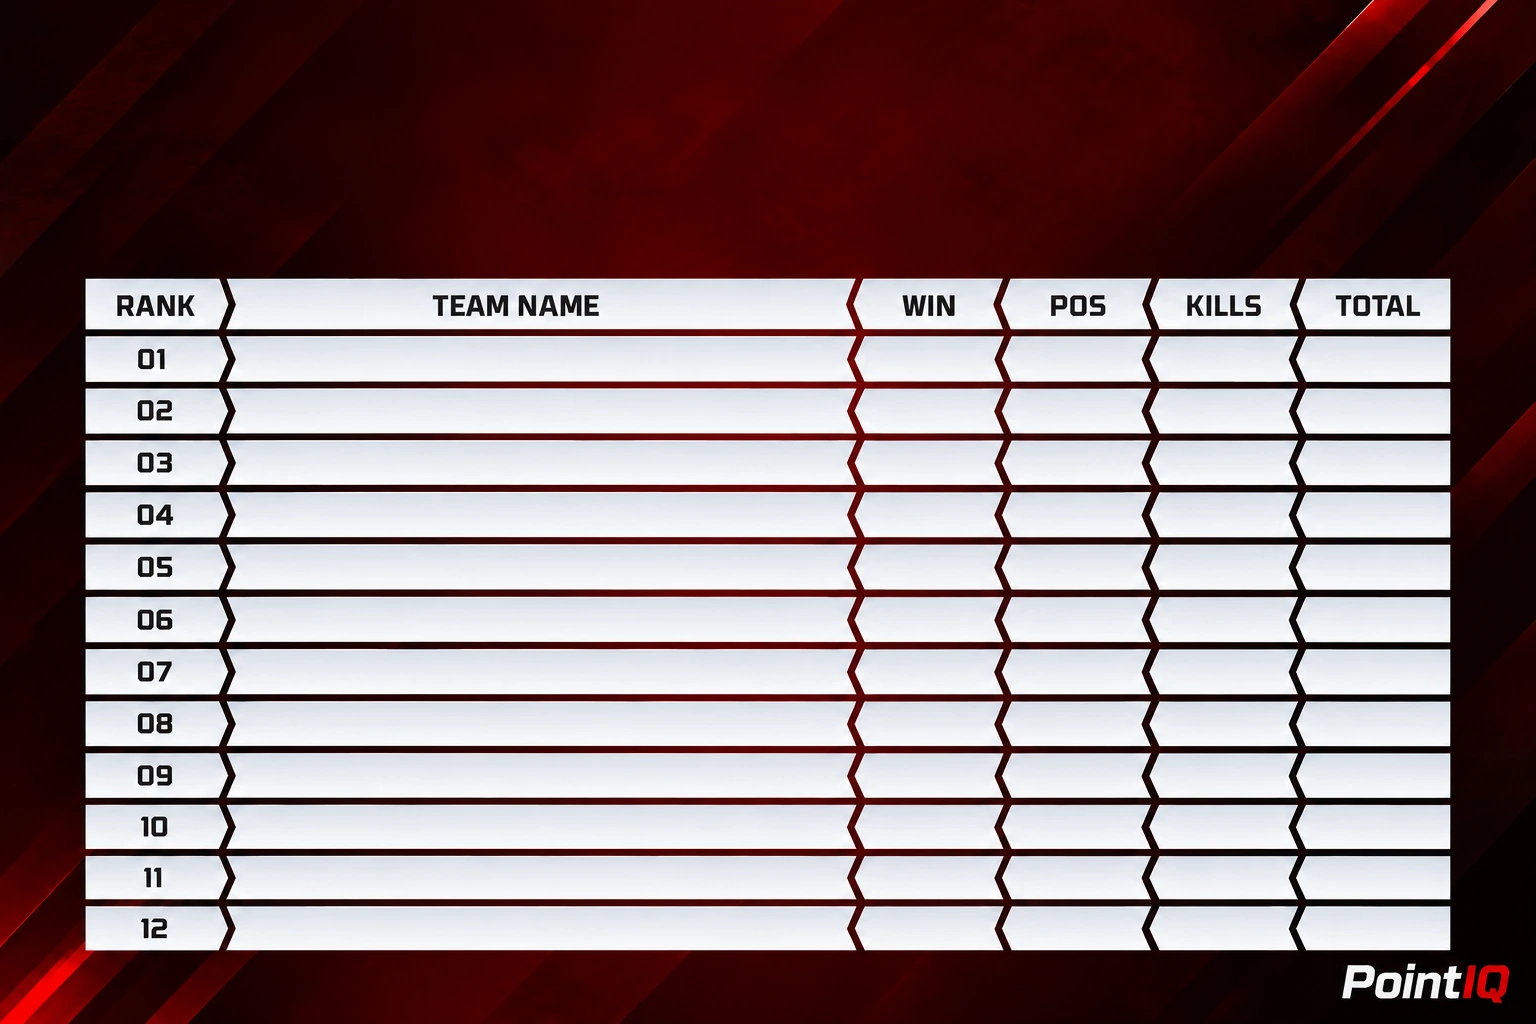
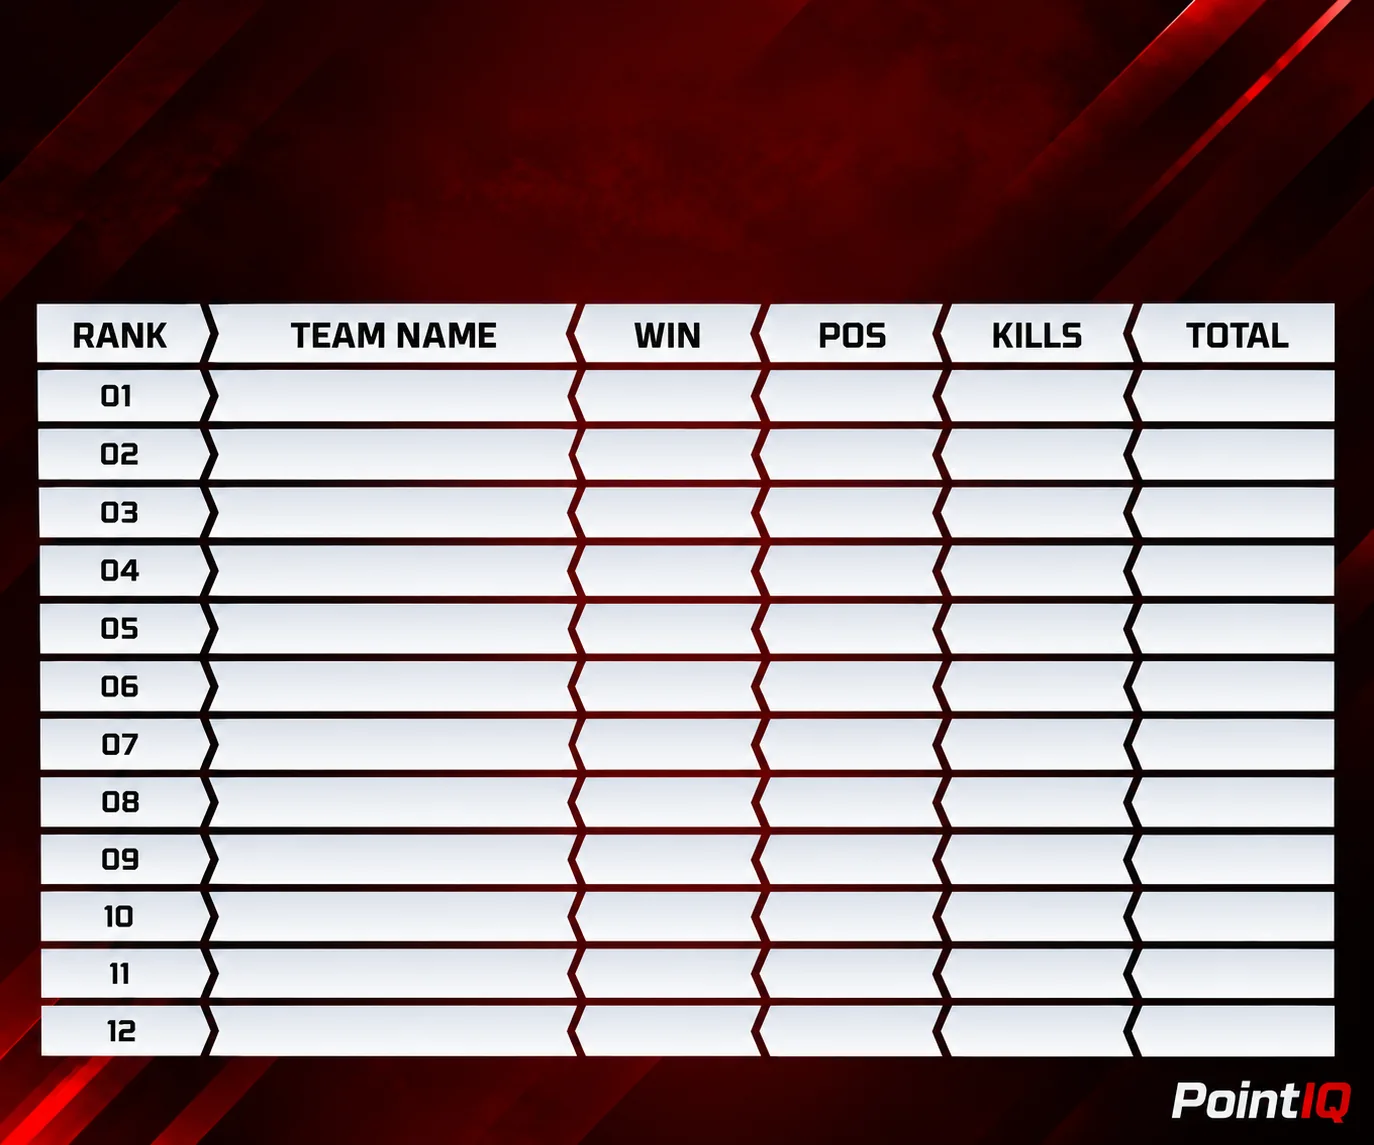
fix(free-design): recalibrate Crimson Edge template

diff --git a/app/src/test/java/com/hoggamers/rankforge/data/export/FreeDesignTemplateRegistryTest.kt b/app/src/test/java/com/hoggamers/rankforge/data/export/FreeDesignTemplateRegistryTest.kt
@@ -294,32 +294,32 @@ class FreeDesignTemplateRegistryTest {
         assertEquals("Crimson Edge", template6.displayName)
         assertEquals(FreeDesignTemplateRegistry.V6_TEMPLATE_ID, template6.id)
         assertEquals(FreeDesignTemplateRegistry.V6_ASSET_PATH, template6.assetPath)
-        assertEquals(1536, template6.sourceWidth)
-        assertEquals(1024, template6.sourceHeight)
+        assertEquals(1374, template6.sourceWidth)
+        assertEquals(1145, template6.sourceHeight)
         assertEquals(
             mapOf(
-                CustomDesignAnchorField.TEAM_NAME to 236f,
-                CustomDesignAnchorField.WIN to 924f,
-                CustomDesignAnchorField.POSITION_POINTS to 1071.5f,
-                CustomDesignAnchorField.TOTAL_KILLS to 1219f,
-                CustomDesignAnchorField.TOTAL_POINTS to 1373f,
+                CustomDesignAnchorField.TEAM_NAME to 214f,
+                CustomDesignAnchorField.WIN to 667f,
+                CustomDesignAnchorField.POSITION_POINTS to 850.5f,
+                CustomDesignAnchorField.TOTAL_KILLS to 1036.5f,
+                CustomDesignAnchorField.TOTAL_POINTS to 1235.5f,
             ),
             template6.tableGeometry.columnX,
         )
         assertEquals(
             mapOf(
-                1 to 358f,
-                2 to 410.5f,
-                3 to 462f,
-                4 to 514f,
-                5 to 566f,
-                6 to 619f,
-                7 to 671f,
-                8 to 723.5f,
-                9 to 774.5f,
-                10 to 826.5f,
-                11 to 877f,
-                12 to 927.5f,
+                1 to 395f,
+                2 to 453.5f,
+                3 to 512f,
+                4 to 570.5f,
+                5 to 628f,
+                6 to 685.5f,
+                7 to 743.5f,
+                8 to 802f,
+                9 to 859f,
+                10 to 916f,
+                11 to 973f,
+                12 to 1030.5f,
             ),
             template6.tableGeometry.rowY,
         )
@@ -330,22 +330,22 @@ class FreeDesignTemplateRegistryTest {
             template6.resultColumnTextColors.asMap(),
         )
         FreeDesignHeaderField.entries.forEach { field ->
-            assertEquals(768f, template6.headerAnchors.getValue(field).centerX, 0f)
+            assertEquals(687f, template6.headerAnchors.getValue(field).centerX, 0f)
             assertEquals("#F4F4F4", template6.headerAnchors.getValue(field).style.color)
         }
-        assertEquals(95f, template6.headerAnchors.getValue(FreeDesignHeaderField.TOURNAMENT_NAME).centerY, 0f)
+        assertEquals(90f, template6.headerAnchors.getValue(FreeDesignHeaderField.TOURNAMENT_NAME).centerY, 0f)
         assertEquals(72f, template6.headerAnchors.getValue(FreeDesignHeaderField.TOURNAMENT_NAME).style.textSize, 0f)
-        assertEquals(1300f, template6.headerAnchors.getValue(FreeDesignHeaderField.TOURNAMENT_NAME).style.maxWidthPx, 0f)
+        assertEquals(1150f, template6.headerAnchors.getValue(FreeDesignHeaderField.TOURNAMENT_NAME).style.maxWidthPx, 0f)
         assertEquals(32f, template6.headerAnchors.getValue(FreeDesignHeaderField.TOURNAMENT_NAME).style.minimumTextSizePx, 0f)
-        assertEquals(160f, template6.headerAnchors.getValue(FreeDesignHeaderField.ORGANIZER_NAME).centerY, 0f)
+        assertEquals(155f, template6.headerAnchors.getValue(FreeDesignHeaderField.ORGANIZER_NAME).centerY, 0f)
         assertEquals(42f, template6.headerAnchors.getValue(FreeDesignHeaderField.ORGANIZER_NAME).style.textSize, 0f)
-        assertEquals(1200f, template6.headerAnchors.getValue(FreeDesignHeaderField.ORGANIZER_NAME).style.maxWidthPx, 0f)
+        assertEquals(1100f, template6.headerAnchors.getValue(FreeDesignHeaderField.ORGANIZER_NAME).style.maxWidthPx, 0f)
         assertEquals(22f, template6.headerAnchors.getValue(FreeDesignHeaderField.ORGANIZER_NAME).style.minimumTextSizePx, 0f)
-        assertEquals(220f, template6.headerAnchors.getValue(FreeDesignHeaderField.RESULT_HEADING).centerY, 0f)
+        assertEquals(215f, template6.headerAnchors.getValue(FreeDesignHeaderField.RESULT_HEADING).centerY, 0f)
         assertEquals(22f, template6.headerAnchors.getValue(FreeDesignHeaderField.RESULT_HEADING).style.textSize, 0f)
-        assertEquals(1200f, template6.headerAnchors.getValue(FreeDesignHeaderField.RESULT_HEADING).style.maxWidthPx, 0f)
+        assertEquals(1050f, template6.headerAnchors.getValue(FreeDesignHeaderField.RESULT_HEADING).style.maxWidthPx, 0f)
         assertEquals(16f, template6.headerAnchors.getValue(FreeDesignHeaderField.RESULT_HEADING).style.minimumTextSizePx, 0f)
-        assertEquals(220f, template6.headerAnchors.getValue(FreeDesignHeaderField.DATE).centerY, 0f)
+        assertEquals(215f, template6.headerAnchors.getValue(FreeDesignHeaderField.DATE).centerY, 0f)
         assertEquals(18f, template6.headerAnchors.getValue(FreeDesignHeaderField.DATE).style.textSize, 0f)
         assertEquals(700f, template6.headerAnchors.getValue(FreeDesignHeaderField.DATE).style.maxWidthPx, 0f)
         assertEquals(12f, template6.headerAnchors.getValue(FreeDesignHeaderField.DATE).style.minimumTextSizePx, 0f)

diff --git a/app/src/main/java/com/hoggamers/rankforge/data/export/FreeDesignTemplateRegistry.kt b/app/src/main/java/com/hoggamers/rankforge/data/export/FreeDesignTemplateRegistry.kt
@@ -28,8 +28,8 @@ object FreeDesignTemplateRegistry {
     private const val V4_RESULT_COLOR = "#111111"
     private const val V5_RESULT_COLOR = "#F2F0FF"
     private const val V5_HEADER_COLOR = "#F2F0FF"
-    private const val V6_SOURCE_WIDTH = 1536
-    private const val V6_SOURCE_HEIGHT = 1024
+    private const val V6_SOURCE_WIDTH = 1374
+    private const val V6_SOURCE_HEIGHT = 1145
     private const val V6_RESULT_COLOR = "#111111"
     private const val V6_HEADER_COLOR = "#F4F4F4"
 
@@ -413,25 +413,25 @@ object FreeDesignTemplateRegistry {
             sourceWidth = V6_SOURCE_WIDTH,
             sourceHeight = V6_SOURCE_HEIGHT,
             columnX = mapOf(
-                CustomDesignAnchorField.TEAM_NAME to 236f,
-                CustomDesignAnchorField.WIN to 924f,
-                CustomDesignAnchorField.POSITION_POINTS to 1071.5f,
-                CustomDesignAnchorField.TOTAL_KILLS to 1219f,
-                CustomDesignAnchorField.TOTAL_POINTS to 1373f,
+                CustomDesignAnchorField.TEAM_NAME to 214f,
+                CustomDesignAnchorField.WIN to 667f,
+                CustomDesignAnchorField.POSITION_POINTS to 850.5f,
+                CustomDesignAnchorField.TOTAL_KILLS to 1036.5f,
+                CustomDesignAnchorField.TOTAL_POINTS to 1235.5f,
             ),
             rowY = mapOf(
-                1 to 358f,
-                2 to 410.5f,
-                3 to 462f,
-                4 to 514f,
-                5 to 566f,
-                6 to 619f,
-                7 to 671f,
-                8 to 723.5f,
-                9 to 774.5f,
-                10 to 826.5f,
-                11 to 877f,
-                12 to 927.5f,
+                1 to 395f,
+                2 to 453.5f,
+                3 to 512f,
+                4 to 570.5f,
+                5 to 628f,
+                6 to 685.5f,
+                7 to 743.5f,
+                8 to 802f,
+                9 to 859f,
+                10 to 916f,
+                11 to 973f,
+                12 to 1030.5f,
             ),
         ),
         resultColumnTextColors = CustomDesignColumnTextColors.fromMap(
@@ -444,34 +444,34 @@ object FreeDesignTemplateRegistry {
         headerAnchors = mapOf(
             FreeDesignHeaderField.TOURNAMENT_NAME to headerAnchor(
                 centerX = V6_SOURCE_WIDTH / 2f,
-                centerY = 95f,
+                centerY = 90f,
                 textSize = 72f,
-                maxWidthPx = 1300f,
+                maxWidthPx = 1150f,
                 minimumTextSizePx = 32f,
                 typographyRole = FreeDesignTypographyRole.TITLE,
                 color = V6_HEADER_COLOR,
             ),
             FreeDesignHeaderField.ORGANIZER_NAME to headerAnchor(
                 centerX = V6_SOURCE_WIDTH / 2f,
-                centerY = 160f,
+                centerY = 155f,
                 textSize = 42f,
-                maxWidthPx = 1200f,
+                maxWidthPx = 1100f,
                 minimumTextSizePx = 22f,
                 typographyRole = FreeDesignTypographyRole.SECONDARY,
                 color = V6_HEADER_COLOR,
             ),
             FreeDesignHeaderField.RESULT_HEADING to headerAnchor(
                 centerX = V6_SOURCE_WIDTH / 2f,
-                centerY = 220f,
+                centerY = 215f,
                 textSize = 22f,
-                maxWidthPx = 1200f,
+                maxWidthPx = 1050f,
                 minimumTextSizePx = 16f,
                 typographyRole = FreeDesignTypographyRole.RESULT_HEADING,
                 color = V6_HEADER_COLOR,
             ),
             FreeDesignHeaderField.DATE to headerAnchor(
                 centerX = V6_SOURCE_WIDTH / 2f,
-                centerY = 220f,
+                centerY = 215f,
                 textSize = 18f,
                 maxWidthPx = 700f,
                 minimumTextSizePx = 12f,

diff --git a/app/src/androidTest/java/com/hoggamers/rankforge/data/export/FreeDesignBitmapComposerTest.kt b/app/src/androidTest/java/com/hoggamers/rankforge/data/export/FreeDesignBitmapComposerTest.kt
@@ -139,10 +139,10 @@ class FreeDesignBitmapComposerTest {
         val matchResult = composer.compose(matchModel(), template6)
         val matchBitmap = (matchResult as FreeDesignBitmapComposeResult.Success).bitmap
         try {
-            assertEquals(1536, tournamentBitmap.width)
-            assertEquals(1024, tournamentBitmap.height)
-            assertEquals(1536, matchBitmap.width)
-            assertEquals(1024, matchBitmap.height)
+            assertEquals(1374, tournamentBitmap.width)
+            assertEquals(1145, tournamentBitmap.height)
+            assertEquals(1374, matchBitmap.width)
+            assertEquals(1145, matchBitmap.height)
         } finally {
             tournamentBitmap.recycle()
             matchBitmap.recycle()
